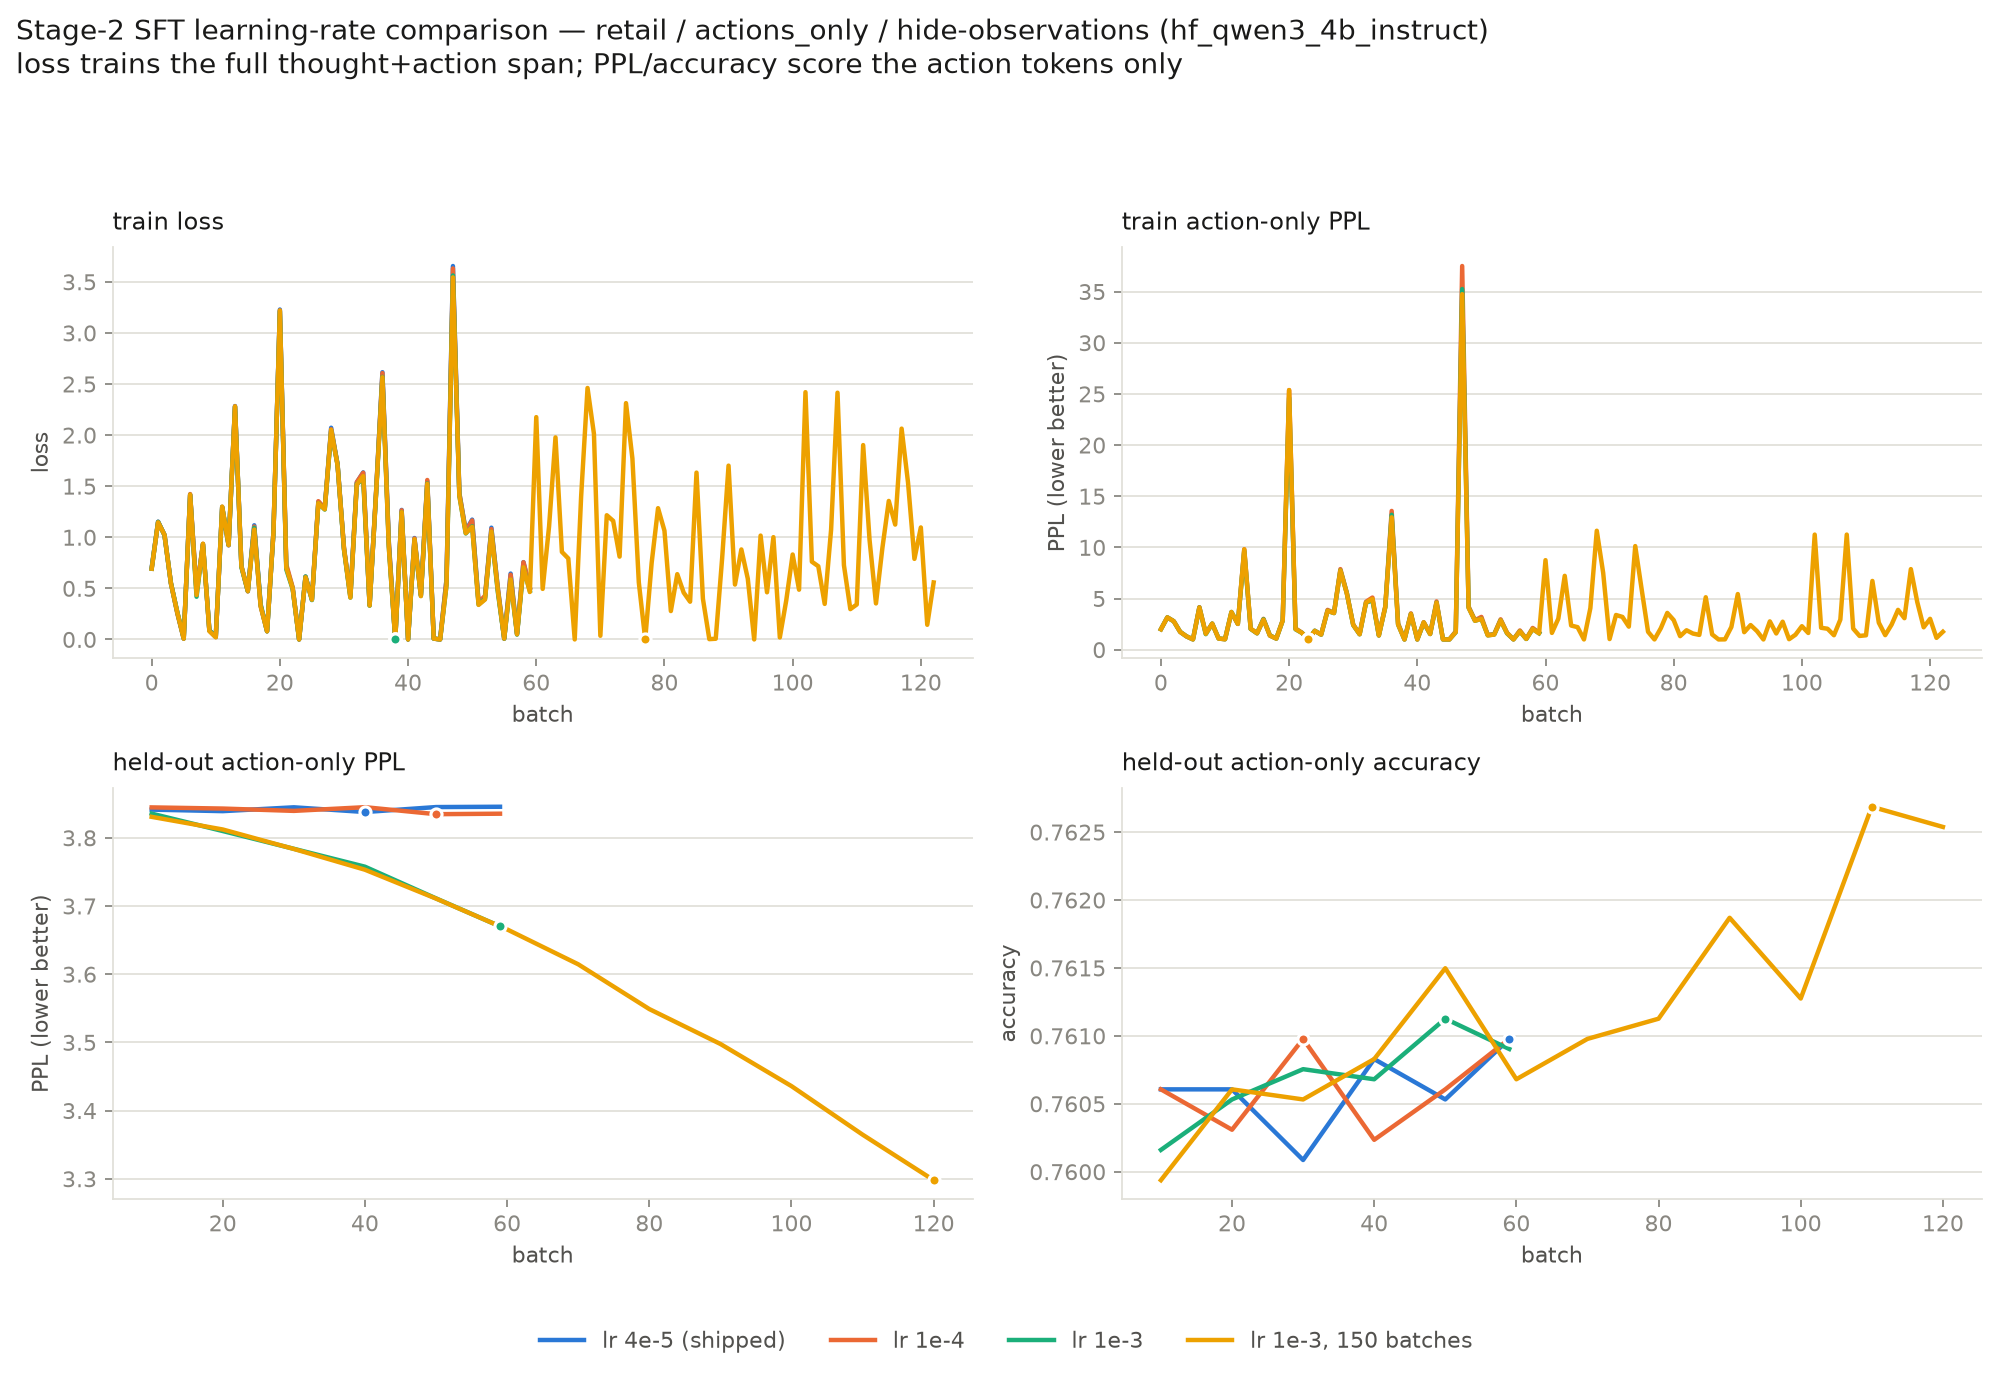
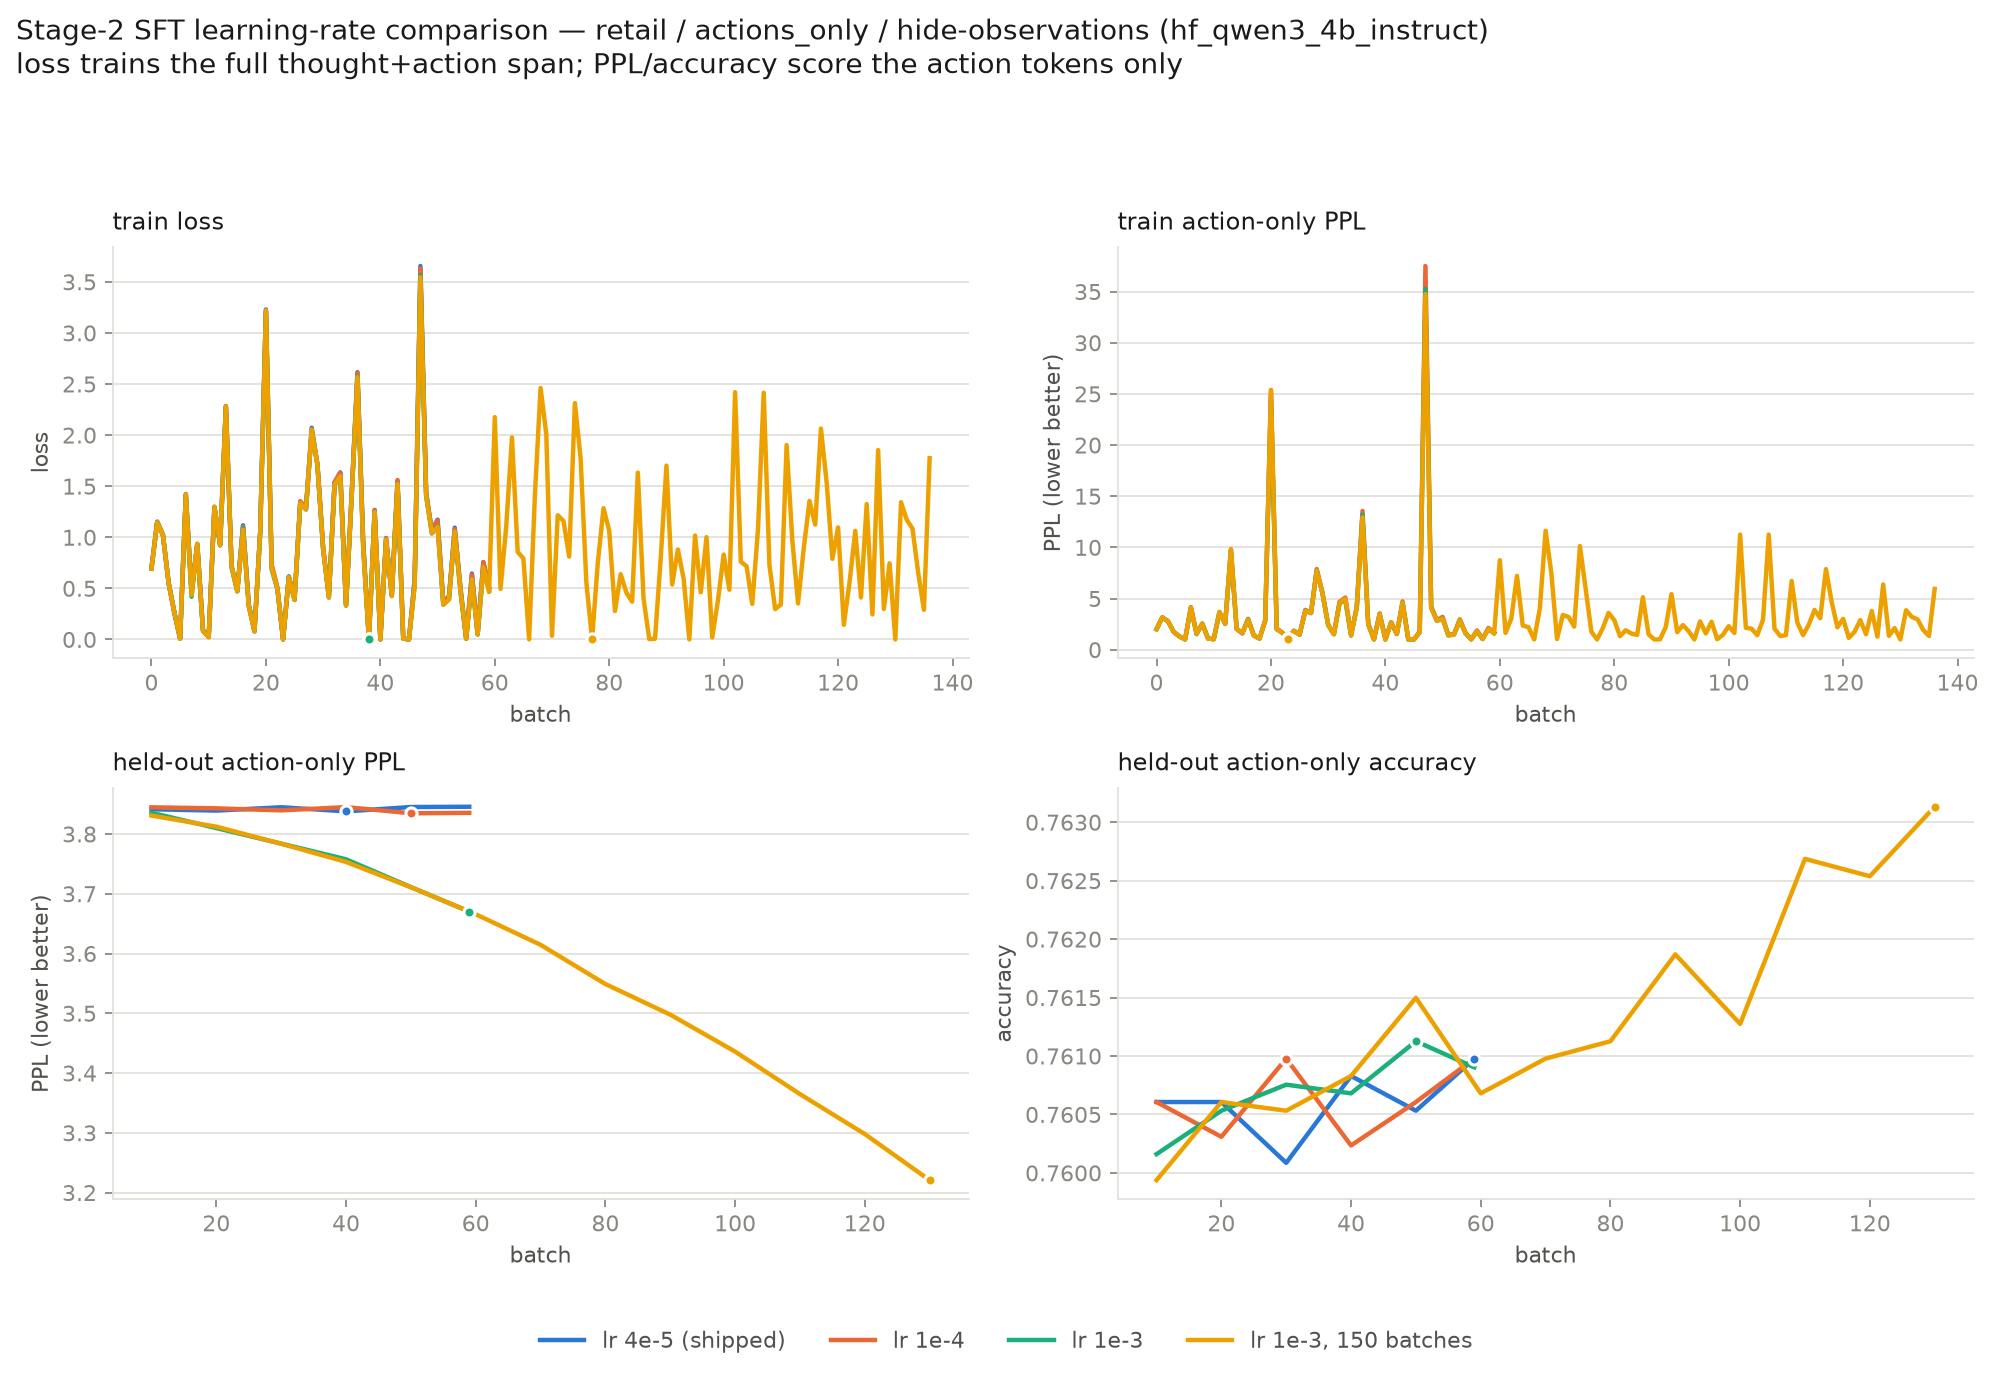
auto: SFT LR sweep results snapshot

diff --git a/notes/cc-3.0-retail_sft_results.md b/notes/cc-3.0-retail_sft_results.md
@@ -20,7 +20,7 @@ for wordiness rather than for mispredicting the action, which inverts the rankin
 | thoughts_base | hide | 3.1735 | 0.7819 | 59 | 3.7098 | 0.7454 | 59 | 0.9361 |
 | thoughts_base | full | 2.9999 | 0.8035 | 30 | 3.4093 | 0.7717 | 59 | 0.6225 |
 | actions_only_lr1e_3 | hide | 3.6702 | 0.7609 | 59 | 3.6702 | 0.7609 | 59 | 0.4756 |
-| actions_only_lr1e_3_nb150 | hide | 3.2979 | 0.7625 | 120 | 3.2979 | 0.7625 | 120 | 0.5580 |
+| actions_only_lr1e_3_nb150 | hide | 3.2207 | 0.7631 | 130 | 3.2207 | 0.7631 | 130 | 1.7747 |
 | actions_only_lr1e_4 | hide | 3.8346 | 0.7606 | 50 | 3.8346 | 0.7606 | 50 | 0.5078 |
 | thoughts_base_last | hide | 3.1928 | 0.7784 | 59 | 3.6738 | 0.7401 | 59 | 0.9956 |
 | thoughts_policy_last | hide | 3.2078 | 0.7825 | 40 | 3.7470 | 0.7390 | 10 | 1.5987 |
@@ -44,7 +44,7 @@ that saved step:
 | thoughts_base | hide | 3.1735 | 0.7819 |
 | thoughts_base | full | 3.0008 | 0.8030 |
 | actions_only_lr1e_3 | hide | 3.6702 | 0.7609 |
-| actions_only_lr1e_3_nb150 | hide | 3.2979 | 0.7625 |
+| actions_only_lr1e_3_nb150 | hide | 3.2207 | 0.7631 |
 | actions_only_lr1e_4 | hide | 3.8346 | 0.7606 |
 | thoughts_base_last | hide | 3.1928 | 0.7784 |
 | thoughts_policy_last | hide | 3.2100 | 0.7810 |

diff --git a/notes/cc-5.0-sft-lr-investigation.md b/notes/cc-5.0-sft-lr-investigation.md
@@ -99,11 +99,11 @@ within-dataset rankings are unaffected. The re-run uses one definition throughou
 arm                                                  reg     b   eval ppl first->last      Δ%     acc  train ao ppl
 ----------------------------------------------------------------------------------------------------------------------
 retail/actions_only_lr1e_3                           hide   59     3.8355 ->   3.6702   4.31%  0.7609        1.6094
-retail/actions_only_lr1e_3_nb150                     hide  122     3.8307 ->   3.2979  13.91%  0.7625        1.7500  <running>
+retail/actions_only_lr1e_3_nb150                     hide  136     3.8307 ->   3.2207  15.92%  0.7631        5.9375  <running>
 
 1/2 arms complete   (Δ% = held-out action-subspan PPL improvement, higher is better)
 ```
-_last refreshed: 2026-08-20 01:20_
+_last refreshed: 2026-08-20 01:40_
 <!--/RESULTS-->
 
 ## Infrastructure
